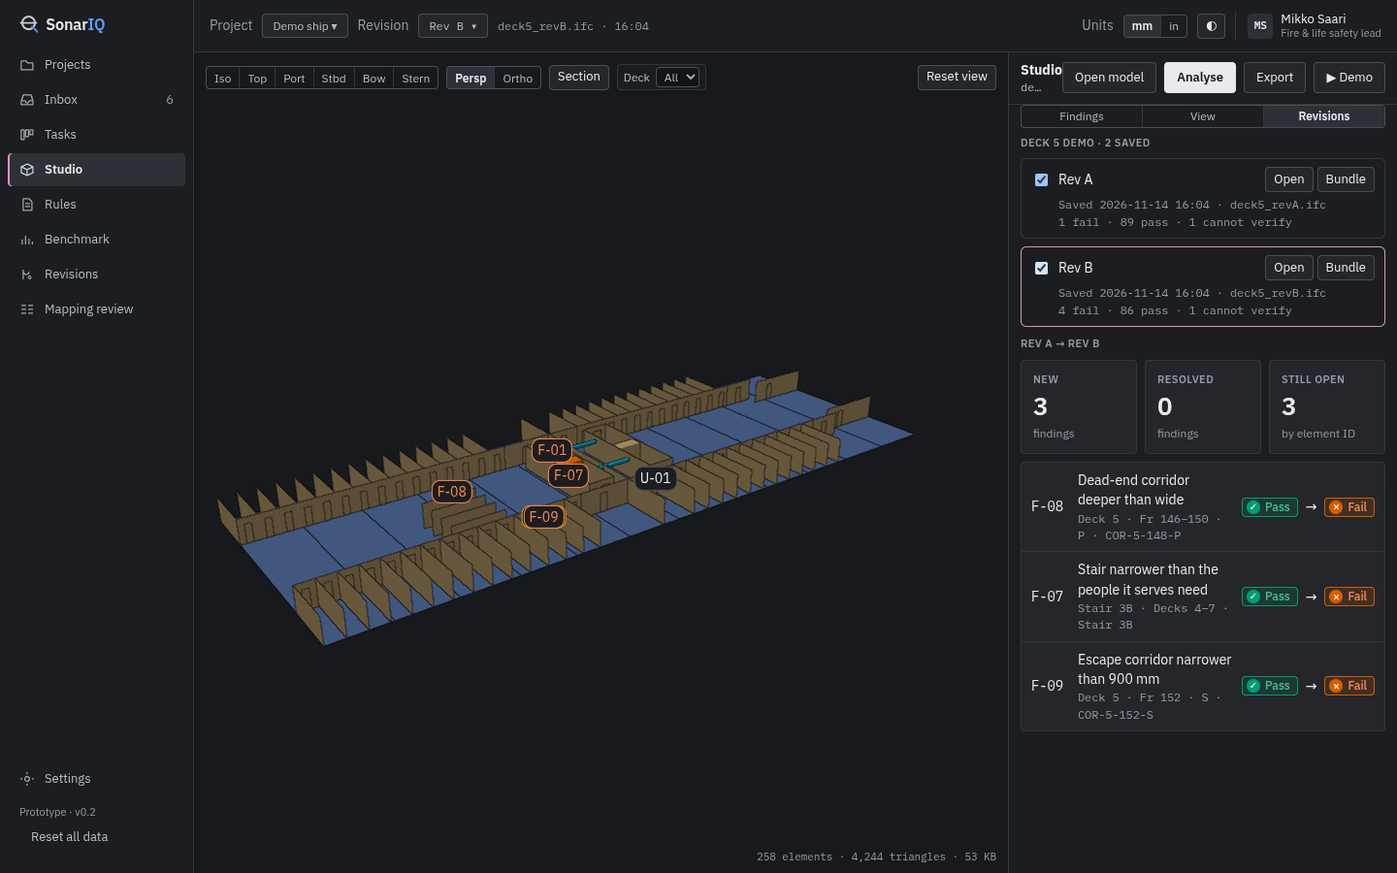
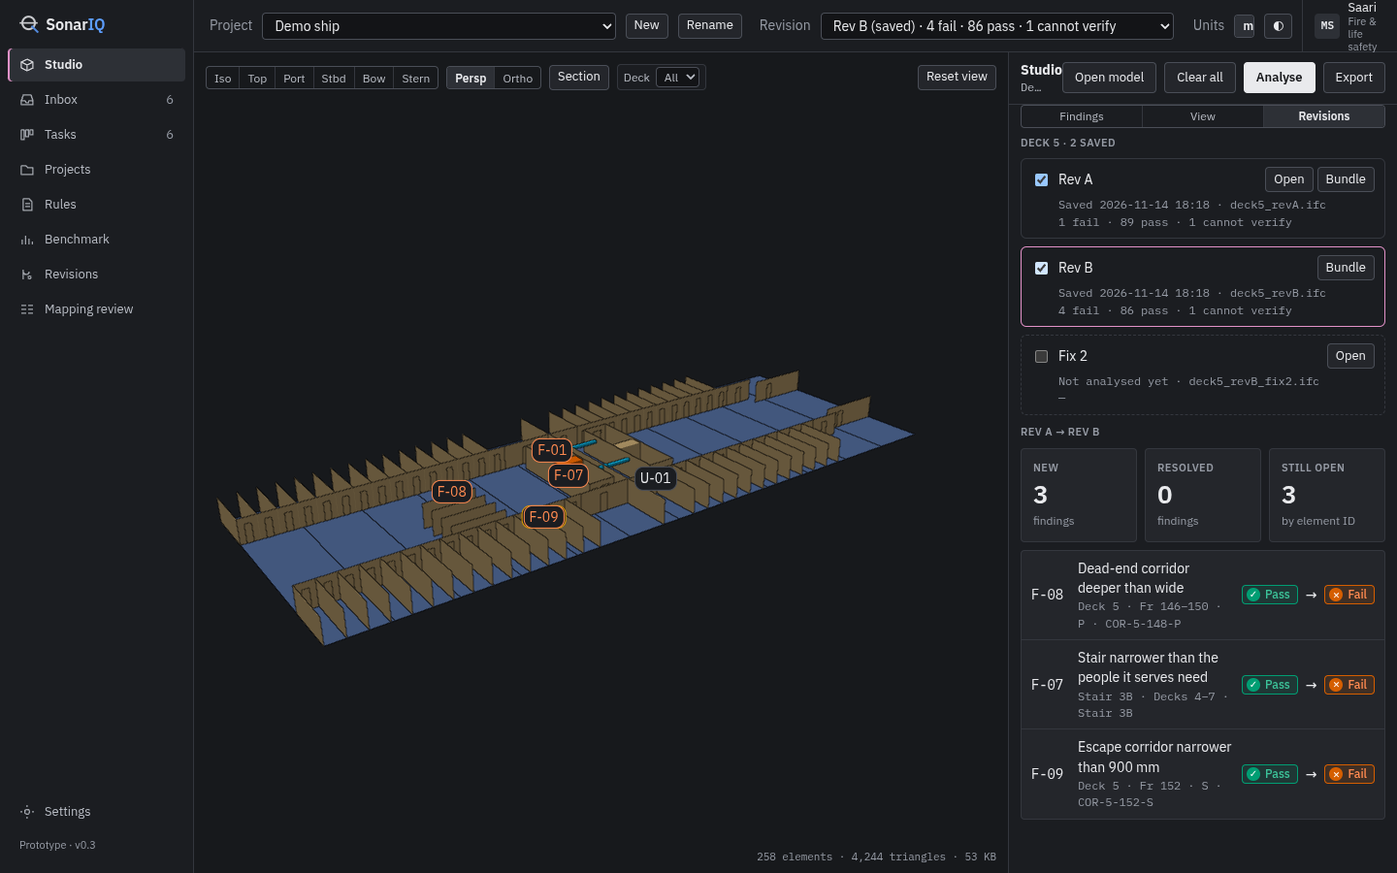
Studio reliability step 4: demo in its own throwaway project, per-step timeout/precondition/error with Retry and Skip, Next/Stop always respond, Stop restores the previous state
Claude-Session: https://claude.ai/code/session_016AgFqJbGUXAtWvWsFn8dYx

diff --git a/portal/src/screens/Studio.tsx b/portal/src/screens/Studio.tsx
@@ -9,6 +9,7 @@ import RevisionTimeline from "../components/RevisionTimeline";
 import ShipView, { type ModelSrc, type View } from "../components/ShipView";
 import { AccuracyBanner, NotRun, ReadinessCard, SourceChips } from "../components/Evidence";
 import FindingsList from "../components/FindingsList";
+import DemoRun, { type DemoStep } from "../components/DemoRun";
 import TraceMatrix from "../components/TraceMatrix";
 import ViewPane from "../components/ViewPane";
 import type { ShipViewer } from "../viewer/ShipViewer";
@@ -61,6 +62,10 @@ export default function Studio({ scope: sc, openRev, refresh, onOpenFinding }: {
   const [incorrect, reloadInc] = useIncorrect();
   const view = useRef<View | null>(null);
   const fileIn = useRef<HTMLInputElement>(null);
+  const [cmpPick, setCmpPick] = useState<number[] | undefined>(undefined);
+  // demo run-through (spec B8): its own throwaway project; Stop restores what was open before
+  const [demo, setDemo] = useState<{ pid: number; prev: { pid: number | null; rev: number | null; tab: typeof tab; mode: string | null; cuts: unknown[]; setup: boolean } } | null>(null);
+  const vstat = useRef<{ state: string; msg: string }>({ state: "idle", msg: "" });
   useEffect(() => { setSetup(!rev || !data); setSel(null); setMsg(""); }, [rev?.id, !!data]); // eslint-disable-line react-hooks/exhaustive-deps
   useEffect(() => { if (rev?.source === "rcrv") { setScope("whole"); setDiscs((d) => (d.includes("HULL") ? d : [...d, "HULL"])); } }, [rev?.id]); // eslint-disable-line react-hooks/exhaustive-deps
 
@@ -128,6 +133,124 @@ export default function Studio({ scope: sc, openRev, refresh, onOpenFinding }: {
     } catch (e) { setMsg(`Export failed: ${(e as Error).message}`); }
   };
   const latest = (m: RevModel) => m.revisions[m.revisions.length - 1];
+
+  // ------------------------------------------------------------------ demo run-through
+  const now = useRef({ sc, viewer, demo });
+  now.current = { sc, viewer, demo };
+  const [starting, setStarting] = useState(false);
+  const startDemo = async () => {
+    setStarting(true); setMsg("");
+    try {
+      const v = viewer.v;
+      const prev = { pid: project?.id ?? null, rev: rev?.id ?? null, tab, mode: v?.mode ?? null, cuts: v ? [...v.cuts] : [], setup };
+      const p = await api.projectDemo();
+      setDemo({ pid: p.id, prev });
+    } catch (e) { setMsg(`The demo could not start: ${(e as Error).message}`); }
+    setStarting(false);
+  };
+  const stopDemo = async () => {
+    const d = now.current.demo;
+    if (!d) return;
+    setDemo(null); setCmpPick(undefined);
+    api.projectDelete(d.pid).catch(() => {});           // also deleted by the engine after an hour
+    const { prev } = d;
+    const v0 = now.current.viewer.v;
+    if (v0) { v0.setSolo(null); v0.setCuts([]); }
+    try {
+      if (prev.pid != null) await openRev(prev.rev, prev.pid); else await openRev(null);
+    } catch { /* the scope stays on what loads */ }
+    setTab(prev.tab); setSetup(prev.setup); setSel(null);
+    // display mode and cuts come back once the previous model is in the 3D again (at most 60 s)
+    const t0 = Date.now();
+    while (Date.now() - t0 < 60000) {
+      const v = now.current.viewer.v;
+      if (prev.rev == null) break;
+      if (v && v.stats.firstFrame != null && vstat.current.state === "ready") {
+        if (prev.mode) v.setMode(prev.mode as never);
+        v.setCuts(prev.cuts as never);
+        break;
+      }
+      if (vstat.current.state === "error") break;
+      await new Promise((r) => setTimeout(r, 250));
+    }
+  };
+  const dScope = () => now.current.sc;
+  const dRev = (label: string) => dScope().project?.models[0]?.revisions.filter((r) => r.label === label || r.file === (label === "Rev A" ? "deck5_revA.ifc" : "deck5_revB.ifc")) ?? [];
+  const demoFinding = () => dScope().data?.run.checks.find((c) => c.id === "F-07") ?? null;
+  const inDemo = () => (dScope().project?.id === now.current.demo?.pid ? null : "the demo's own project is not open");
+  const analyseRev = async (id: number) => {
+    const r = await apiFetch("/analyse", { method: "POST", headers: { "Content-Type": "application/json" }, body: JSON.stringify({ revision_id: id, scope: "deck:5", packs: ["fls", "acc", "dnv"] }) });
+    const d = await r.json(); if (!r.ok) throw new Error(d.detail ?? r.statusText);
+    return d.run_meta as RunMeta & { draft: { id: number } };
+  };
+  const demoSteps: DemoStep[] = [
+    { title: "1 · Data readiness", fail: "open the demo model",
+      text: "The demo works in its own copy of the Deck 5 model, so nothing you have open changes. Before any rule runs, SonarIQ reads what the model actually contains (spaces, doors, fire ratings, systems). Rules the data cannot support are listed as not run, never guessed.",
+      run: async ({ until }) => {
+        const d = now.current.demo; if (!d) throw new Error("the demo project is missing");
+        const p = await api.project(d.pid);
+        const b = p.models[0]?.revisions.find((r) => r.label === "Rev B"); if (!b) throw new Error("Rev B is missing in the demo project");
+        setTab("findings"); setSetup(true);
+        await openRev(b.id, d.pid);
+        await until(() => !!document.querySelector(".studio-setup .ready-card, .studio-setup [data-readiness]") || /Spaces/.test(document.querySelector(".studio-setup")?.textContent ?? ""), "the readiness check");
+      } },
+    { title: "2 · The whole model in 3D", fail: "load the 3D model", timeout: 60000, pre: inDemo,
+      text: "The exact file is converted once on the engine into compressed web tiles and streamed. Every part keeps its IFC GlobalId, so a click maps to the engine's element.",
+      run: async ({ until }) => {
+        await until(() => {
+          if (vstat.current.state === "error") throw new Error(vstat.current.msg || "the 3D view reported an error");
+          return vstat.current.state === "ready" && now.current.viewer.v?.stats.firstFrame != null;
+        }, "the 3D model", 60000);
+        now.current.viewer.v?.view("iso");
+      } },
+    { title: "3 · Analyse, with the accuracy banner", fail: "run the analysis", pre: inDemo,
+      text: "The deterministic rule engine runs. The banner compares the result with hand-checked findings and an independent scan: what was found, false alarms, expected passes.",
+      run: async ({ until }) => {
+        const a = dRev("Rev A")[0], b = dRev("Rev B").slice(-1)[0];
+        if (!a || !b) throw new Error("the demo revisions are missing");
+        // the compare step needs Rev A analysed and saved: done here, in the demo's own project
+        if (a.state !== "saved") { const ra = await analyseRev(a.id); await api.revExport(ra.id, "report"); }
+        const rb = await analyseRev(b.id);
+        await refresh(); await openRev(rb.draft.id);
+        setSetup(false);
+        await until(() => !!demoFinding(), "the analysis");
+        await until(() => !!document.querySelector(".acc-banner") && !/Checking/.test(document.querySelector(".acc-banner")?.textContent ?? ""), "the accuracy banner");
+        document.querySelector(".acc-banner")?.scrollIntoView({ block: "nearest" });
+      } },
+    { title: "4 · One finding, with its callout", fail: "show the finding", pre: () => inDemo() ?? (demoFinding() ? null : "F-07 is not in this analysis"),
+      text: "F-07: the stair is narrower than the FSS Code formula needs. The callout shows what the model has, what it must be with the formula filled in from the model, the clause, and where each value comes from.",
+      run: async ({ until }) => { pick(demoFinding()!); await until(() => !!document.querySelector(".co-card, .co-pin.is-active"), "the callout"); } },
+    { title: "5 · Section at the finding", fail: "cut the section", pre: () => inDemo() ?? (now.current.viewer.v ? null : "the 3D model is not loaded"),
+      text: "One click cuts a deck plan through the finding and turns the camera to face it. Cut faces are capped, so walls and stairs read as solid.",
+      run: async ({ until }) => {
+        const c = demoFinding(); if (!c) throw new Error("F-07 is not in this analysis");
+        if (!(await view.current?.sectionAt(c))) throw new Error("there is no position for the cut");
+        await until(() => !(now.current.viewer.v as unknown as { anim: unknown } | null)?.anim, "the camera move");
+      } },
+    { title: "6 · X-ray, one system solo", fail: "switch the display", pre: () => inDemo() ?? (now.current.viewer.v ? null : "the 3D model is not loaded"),
+      text: "X-ray with one system soloed and everything else as faint context. Deck 5 has no pipes, so this solos the HVAC ducts; on the RCRV whole ship the same button solos piping.",
+      run: () => {
+        const v = now.current.viewer.v!;
+        view.current?.showAll(); setSel(null); v.setCuts([]);
+        // piping when the model has pipes (the group can exist with no parts), else HVAC
+        const g = v.index.groups, pipe = g.indexOf("piping"), k = pipe >= 0 && v.disc.includes(pipe) ? pipe : g.indexOf("hvac");
+        v.setMode("xray"); if (k >= 0) v.setSolo(k); setTab("view");
+      } },
+    { title: "7 · Revisions and compare", fail: "compare the revisions", pre: inDemo,
+      text: "Saving keeps a revision exactly as it was. Comparing the saved Rev A with this analysis of Rev B: the new cabins add three findings, matched by element ID.",
+      run: async ({ until }) => {
+        const v = now.current.viewer.v; if (v) { v.setSolo(null); v.setMode("edges"); }
+        await refresh();
+        const a = dRev("Rev A").find((r) => r.state === "saved"), b = dScope().rev;
+        if (!a || !b) throw new Error("there is no Rev A / Rev B pair to compare");
+        setCmpPick([a.id, b.id]); setTab("revisions");
+        await until(() => !!document.querySelector('[aria-label="Compare revisions"]'), "the comparison");
+      } },
+    { title: "8 · BCF export", fail: "export BCF", pre: () => inDemo() ?? (dScope().data ? null : "there is no analysis to export"),
+      text: "Findings go to the CAD tool as BCF (the FreeCAD panel reads them back on the right parts). Exporting saves this revision; findings marked incorrect are left out. All of this stays in the demo's own project, which is deleted when the demo ends.",
+      run: async () => { setTab("findings"); await exportAs("bcf"); } },
+  ];
+
   // Clear all: optionally save this revision (the step 7 save), then close the model; Studio, Inbox and Tasks go empty
   const [clearAsk, setClearAsk] = useState(false);
   const [clearing, setClearing] = useState(false);
@@ -181,7 +304,9 @@ export default function Studio({ scope: sc, openRev, refresh, onOpenFinding }: {
   return (
     <div className="studio">
       <div className="studio-left">
-        <ShipView src={viewSrc} findings={painted} apiRef={view} onViewer={(v, id) => setViewer({ v, id })} onPick={pick} onOpenEvidence={onOpenFinding} />
+        <ShipView src={viewSrc} findings={painted} apiRef={view} onViewer={(v, id) => setViewer({ v, id })} onPick={pick} onOpenEvidence={onOpenFinding}
+          noConvert={!!demo} onStatus={(state, m) => { vstat.current = { state, msg: m }; }} />
+        {demo && <DemoRun steps={demoSteps} onStop={stopDemo} />}
       </div>
       <aside className="studio-panel">
         <header className="studio-head">
@@ -192,11 +317,13 @@ export default function Studio({ scope: sc, openRev, refresh, onOpenFinding }: {
           {rev && <button className="sq-btn" onClick={() => setClearAsk(true)}>Clear all</button>}
           <button className="sq-btn is-primary" disabled={busy || !rev || !packs.length} title={!rev ? "Open a model to analyse" : ""} onClick={() => analyse()}>{busy ? "Analysing…" : "Analyse"}</button>
           {shown && <button className="sq-btn" onClick={() => { location.hash = `#inbox/${shown.meta.id}`; }}>Export</button>}
+          <button className="sq-btn" aria-pressed={!!demo} aria-label="Demo run-through" disabled={starting} onClick={() => (demo ? stopDemo() : startDemo())}
+                  title="Demo run-through: a guided tour that plays by itself (Space / → next, Esc stops). It works in its own copy of the demo model and changes nothing here.">{demo ? "Stop" : starting ? "Starting…" : "▶ Demo"}</button>
         </header>
         <div className="sq-seg studio-tabs" role="tablist" aria-label="Panel">
           {(["findings", "view", "revisions"] as const).map((k) => <button key={k} role="tab" aria-selected={tab === k} className={tab === k ? "is-on" : ""} onClick={() => setTab(k)}>{k === "findings" ? "Findings" : k === "view" ? "View" : "Revisions"}</button>)}
         </div>
-        {tab === "view" ? <ViewPane v={viewer.v} modelId={viewer.id} /> : tab === "revisions" ? <RevisionTimeline models={model ? [model] : []} current={rev?.id ?? null} onOpen={(r) => openRev(r.id)} /> : <>
+        {tab === "view" ? <ViewPane v={viewer.v} modelId={viewer.id} /> : tab === "revisions" ? <RevisionTimeline models={model ? [model] : []} current={rev?.id ?? null} onOpen={(r) => openRev(r.id)} pick={cmpPick} /> : <>
         {readOnly && <div className="sq-banner studio-past"><span style={{ flex: 1 }}><b>{rev!.label}</b> · saved {rev!.saved_at?.replace("T", " ").slice(0, 16)} · read-only: verdicts, marks and tasks as they were saved. Analyse to continue in a new draft.</span></div>}
         {shown && !readOnly && <div className="sq-faint" style={{ fontSize: 12, textAlign: "right", padding: "0 12px 6px" }}>All findings are exported except those marked incorrect.</div>}
         {msg && <div className="sq-banner" style={{ margin: "0 12px 8px" }}>{msg}</div>}

diff --git a/portal/src/components/DemoRun.tsx b/portal/src/components/DemoRun.tsx
@@ -1,53 +1,96 @@
-// Demo run-through (spec B8): a scripted tour that plays by itself. Each step does something real in the Studio
-// (the caller's `run`), then the caption explains it. Space or → goes to the next step now, Esc stops.
+// Demo run-through (spec B8, Studio reliability step 4): a scripted tour that plays by itself and cannot get stuck.
+// Every step has a precondition, a timeout and an error state ("Couldn't …: reason" with Retry and Skip step). Next,
+// Pause and Stop always respond: Next and Stop abort the running step (its `signal`), so a step never keeps changing
+// the Studio after the tour has moved on.
 import { useEffect, useRef, useState } from "react";
 
-export type DemoStep = { title: string; text: string; run: () => Promise<void> | void };
+export type StepCtx = {
+  signal: AbortSignal;
+  /** poll until ok() (every 200 ms); throws when the step is aborted or `ms` passes */
+  until: (ok: () => boolean, what: string, ms?: number) => Promise<void>;
+};
+export type DemoStep = {
+  title: string; text: string;
+  /** what the step does, for the error line: "Couldn't <fail>: <reason>" */ fail: string;
+  /** ms before the step counts as failed (20 s; 60 s for loading the model) */ timeout?: number;
+  /** null when the step can run, else why not (shown as the error) */ pre?: () => string | null;
+  run: (ctx: StepCtx) => Promise<void> | void;
+};
 const DWELL = 7000;                       // ms a step stays on screen before the next one plays
+
+class Aborted extends Error {}
 
 export default function DemoRun({ steps, onStop }: { steps: DemoStep[]; onStop: () => void }) {
   const [i, setI] = useState(0);
-  const [busy, setBusy] = useState(true);
+  const [attempt, setAttempt] = useState(0);     // Retry runs the same step again
+  const [phase, setPhase] = useState<"running" | "done" | "error">("running");
   const [err, setErr] = useState("");
   const [paused, setPaused] = useState(false);
-  const live = useRef(true);
+  const ctl = useRef<AbortController | null>(null);
+  const last = i === steps.length - 1;
   // drop focus from the button that started the demo, so Space steps the demo instead of pressing that button again
-  useEffect(() => { live.current = true; (document.activeElement as HTMLElement | null)?.blur?.(); return () => { live.current = false; }; }, []);
-  const ran = useRef(-1);                 // StrictMode runs effects twice in dev: each step's action runs once
-  // run step i once; when it is done, wait DWELL and advance (unless paused or last)
+  useEffect(() => { (document.activeElement as HTMLElement | null)?.blur?.(); return () => ctl.current?.abort(); }, []);
   useEffect(() => {
-    if (ran.current === i) return;
-    ran.current = i;
-    setBusy(true); setErr("");
-    Promise.resolve().then(() => steps[i].run()).catch((e) => setErr(String((e as Error).message ?? e))).finally(() => { if (live.current) setBusy(false); });
-  }, [i]); // eslint-disable-line react-hooks/exhaustive-deps
+    const step = steps[i];
+    const c = new AbortController();
+    ctl.current?.abort();
+    ctl.current = c;
+    setPhase("running"); setErr("");
+    const ms = step.timeout ?? 20000;
+    const until = async (ok: () => boolean, what: string, max = ms) => {
+      const t0 = Date.now();
+      while (!ok()) {
+        if (c.signal.aborted) throw new Aborted();
+        if (Date.now() - t0 > max) throw new Error(`${what} did not finish within ${Math.round(max / 1000)} s`);
+        await new Promise((r) => setTimeout(r, 200));
+      }
+    };
+    let timer = 0;
+    const timeout = new Promise<never>((_, no) => { timer = window.setTimeout(() => no(new Error(`no answer within ${Math.round(ms / 1000)} s`)), ms); });
+    (async () => {
+      const why = step.pre?.();
+      if (why) throw new Error(why);
+      await Promise.race([Promise.resolve().then(() => step.run({ signal: c.signal, until })), timeout]);
+    })().then(() => { if (!c.signal.aborted) setPhase("done"); })
+      .catch((e) => { if (c.signal.aborted || e instanceof Aborted) return; c.abort(); setErr(String((e as Error).message ?? e)); setPhase("error"); })
+      .finally(() => window.clearTimeout(timer));
+  }, [i, attempt]); // eslint-disable-line react-hooks/exhaustive-deps
+  // plays by itself: DWELL after a step is done, unless paused, failed or last
   useEffect(() => {
-    if (busy || paused || i >= steps.length - 1) return;
+    if (phase !== "done" || paused || last) return;
     const t = window.setTimeout(() => setI((n) => Math.min(n + 1, steps.length - 1)), DWELL);
     return () => window.clearTimeout(t);
-  }, [i, busy, paused]); // eslint-disable-line react-hooks/exhaustive-deps
+  }, [phase, paused, i]); // eslint-disable-line react-hooks/exhaustive-deps
+  const next = () => { ctl.current?.abort(); if (last) onStop(); else setI(i + 1); };
+  const stop = () => { ctl.current?.abort(); onStop(); };
+  const nextRef = useRef(next); nextRef.current = next;
+  const stopRef = useRef(stop); stopRef.current = stop;
   useEffect(() => {
     const key = (e: KeyboardEvent) => {
       if ((e.target as HTMLElement)?.closest?.("input, textarea, select")) return;
-      if (e.key === "Escape") { e.preventDefault(); onStop(); }
-      else if (e.key === " " || e.key === "ArrowRight") { e.preventDefault(); if (!busy) { if (i < steps.length - 1) setI(i + 1); else onStop(); } }
+      if (e.key === "Escape") { e.preventDefault(); stopRef.current(); }
+      else if (e.key === " " || e.key === "ArrowRight") { e.preventDefault(); nextRef.current(); }
     };
     window.addEventListener("keydown", key);
     return () => window.removeEventListener("keydown", key);
-  }, [i, busy]); // eslint-disable-line react-hooks/exhaustive-deps
-  const s = steps[i], last = i === steps.length - 1;
+  }, []);
+  const s = steps[i];
   return (
-    <div className="demo-bar sq-card" role="region" aria-label="Demo run-through" aria-live="polite">
+    <div className="demo-bar sq-card" role="region" aria-label="Demo run-through" aria-live="polite" data-phase={phase}>
       <div className="demo-dots" aria-hidden>{steps.map((_, k) => <i key={k} className={k < i ? "is-done" : k === i ? "is-on" : ""} />)}</div>
       <div className="demo-text">
-        <div className="sq-faint mono" style={{ fontSize: 11 }}>Demo · step {i + 1} of {steps.length}{busy ? " · working…" : paused ? " · paused" : ""}</div>
+        <div className="sq-faint mono" style={{ fontSize: 11 }}>Demo · step {i + 1} of {steps.length}{phase === "running" ? " · working…" : phase === "error" ? " · needs you" : paused ? " · paused" : ""}</div>
         <b>{s.title}</b>
-        <div>{err ? <span className="studio-warn">This step did not complete: {err}</span> : s.text}</div>
+        {phase === "error"
+          ? <div className="demo-err" role="alert"><span>Couldn't {s.fail}: {err}</span>
+              <span className="flex gap-1"><button className="sq-btn is-sm" onClick={() => setAttempt((n) => n + 1)}>Retry</button>
+                <button className="sq-btn is-sm" onClick={next}>{last ? "Finish" : "Skip step"}</button></span></div>
+          : <div>{s.text}</div>}
       </div>
       <div className="flex gap-1 demo-actions">
         <button className="sq-btn is-sm" onClick={() => setPaused(!paused)} aria-pressed={paused}>{paused ? "Play" : "Pause"}</button>
-        <button className="sq-btn is-sm is-primary" disabled={busy} onClick={() => (last ? onStop() : setI(i + 1))}>{last ? "Finish" : "Next →"}</button>
-        <button className="sq-btn is-sm" onClick={onStop} aria-label="Stop demo (Esc)">Stop</button>
+        <button className="sq-btn is-sm is-primary" onClick={next}>{last ? "Finish" : "Next →"}</button>
+        <button className="sq-btn is-sm" onClick={stop} aria-label="Stop demo (Esc)">Stop</button>
       </div>
     </div>
   );

diff --git a/portal/src/App.tsx b/portal/src/App.tsx
@@ -214,7 +214,7 @@ function Workspace() {
           <button className="sq-btn is-sm" title="Light / dark" aria-label="Light / dark theme" aria-pressed={light} onClick={() => setLight(!light)}>◐</button>
           <span className="tb-user"><b className="tb-av">{USER.initials}</b><span><span>{USER.name}</span><span className="sq-faint">{USER.role}</span></span></span>
         </header>
-        <main className="page" key={`${project?.id ?? 0}:${revId ?? 0}:${screen === "model" ? "" : data?.id ?? ""}`}>
+        <main className="page" key={screen === "model" ? "studio" : `${project?.id ?? 0}:${revId ?? 0}:${data?.id ?? ""}`}>
           {error && <div className="sq-banner" style={{ marginBottom: 16 }}>{error}</div>}
           {report && ["inbox", "board"].includes(screen) && (
             <div className="sq-banner is-acc" style={{ marginBottom: 16 }}>

diff --git a/portal/src/index.css b/portal/src/index.css
@@ -445,3 +445,4 @@ tr.is-incorrect td:has(.inc-why) { opacity: .85; }
 .demo-text b { display: block; margin: 2px 0; }
 .demo-actions { align-self: end; }
 .studio-left:has(.sec-bar) .demo-bar { bottom: 150px; }
+.demo-err { display: flex; flex-direction: column; gap: 6px; color: var(--st-warn); }

diff --git a/docs/DECISIONS.md b/docs/DECISIONS.md
@@ -262,3 +262,28 @@ Reconciled with step 7 (B11, M11). Differences from step 7, all deliberate:
 
   Both are as before; noted in the fix report.
 - Steps 2 and 3 share one commit: the Clear all dialog is part of the same Studio rewrite.
+
+## M16 — Demo that cannot get stuck (Studio reliability step 4, 14 Nov)
+
+- **Own project.** Pressing ▶ Demo creates a throwaway project (`POST /projects/demo`: Deck 5 with Rev A and Rev B,
+  `demo = 1`, expires in 1 h). The demo never writes into the user's project. The project is deleted, with its runs,
+  marks and saved revisions, when:
+  - Stop or Finish is pressed;
+  - a `GET /projects` / `POST /projects/demo` call finds it expired.
+
+  A closed tab therefore leaves it at most an hour. Demo projects are not listed in the Project menu.
+- **Start and restore.** The project is created in the start handler, not in step 1, so React StrictMode's double
+  effect can't make two. Stop and Finish restore the project, revision, panel tab and model list that were open. The
+  display mode and cuts come back once the previous model is in the 3D again (at most 60 s).
+- **Steps.** Every step has:
+  - a precondition: the demo project is open, plus whatever the step needs;
+  - a timeout: 20 s, or 60 s for loading the 3D;
+  - an AbortSignal: Next, Skip and Stop abort the running step, so it stops changing the Studio;
+  - an error state in the card: "Couldn't <action>: <reason>" with Retry and Skip step.
+
+  Next, Pause and Stop are never disabled.
+- **No conversion during the demo.** The viewer asks `/models/prepare` with `convert: false`. A model that isn't
+  prepared shows "not prepared on the server yet" as the step 2 error and never starts a conversion. The deploy
+  pre-converts every bundled model (step 1).
+- **Compare.** Step 3 analyses and saves Rev A, then analyses Rev B, both in the demo project. Step 7 compares the two.
+  Step 8's BCF export saves Rev B there too.

diff --git a/docs/PROGRESS.md b/docs/PROGRESS.md
@@ -18,3 +18,4 @@ One line per step: step · status · commit · gaps.
 - Step 1 · done · (this commit) · engine resolves Node at startup (SONARIQ_NODE_BIN, else PATH), /health reports converter ok|missing with a readable message; deploy pins the Node binary in the systemd units and pre-converts deck5 A/B/Fix 2 + RCRV (cached by content hash; RCRV by its fixed id); viewer error card with Retry; prepare takes convert:false (demo never converts).
 - Step 2 · done · (this commit) · projects → models → revisions with per-revision marks, tasks, views; migration archives step 7 demo revisions and seeds Demo ship (Deck 5 Rev A/B/Fix 2, RCRV Rev 1); header Project + Revision menus; Studio model list per project; upload asks new model / new revision. Not scoped: Revisions screen (run history) and Thread (DECISIONS M15).
 - Step 3 · done · (same commit as step 2) · Clear all dialog (Save and clear / Clear without saving / Cancel); Reset all data moved to Settings → Danger zone behind typed RESET.
+- Step 4 · done · (this commit) · demo in its own throwaway project (deleted at Stop/Finish or after 1 h), per-step precondition + timeout (20 s / 60 s) + error card with Retry / Skip step, Next/Pause/Stop always respond, Stop restores project/revision/tab/mode/cuts, no conversion during the demo; e2e checks a non-blank canvas at step 2 (DECISIONS M16).
